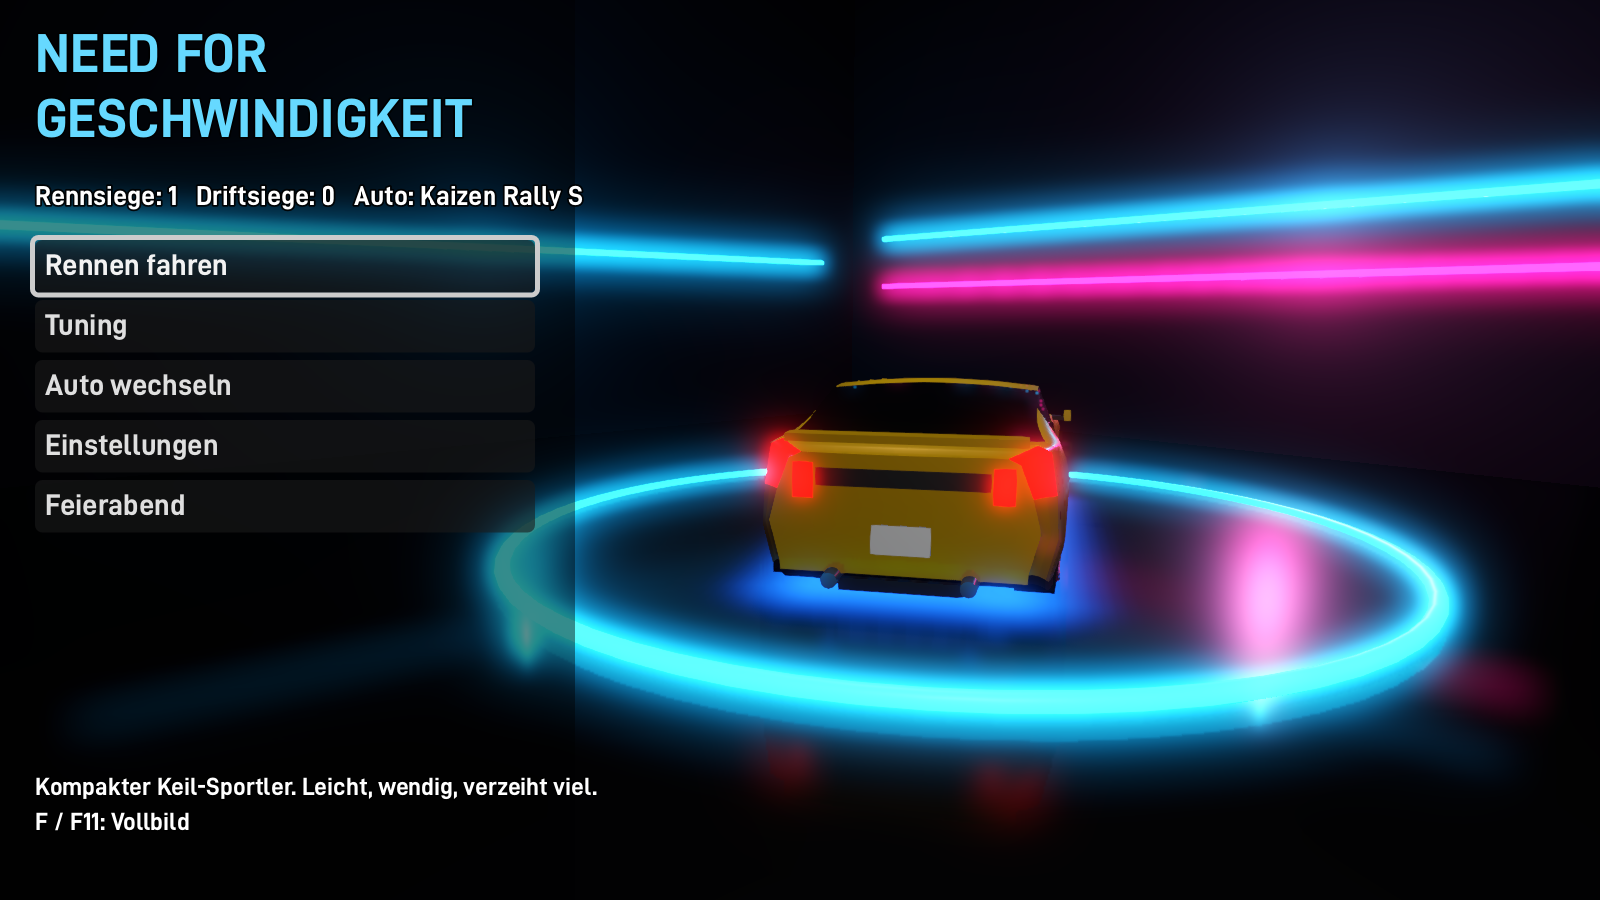
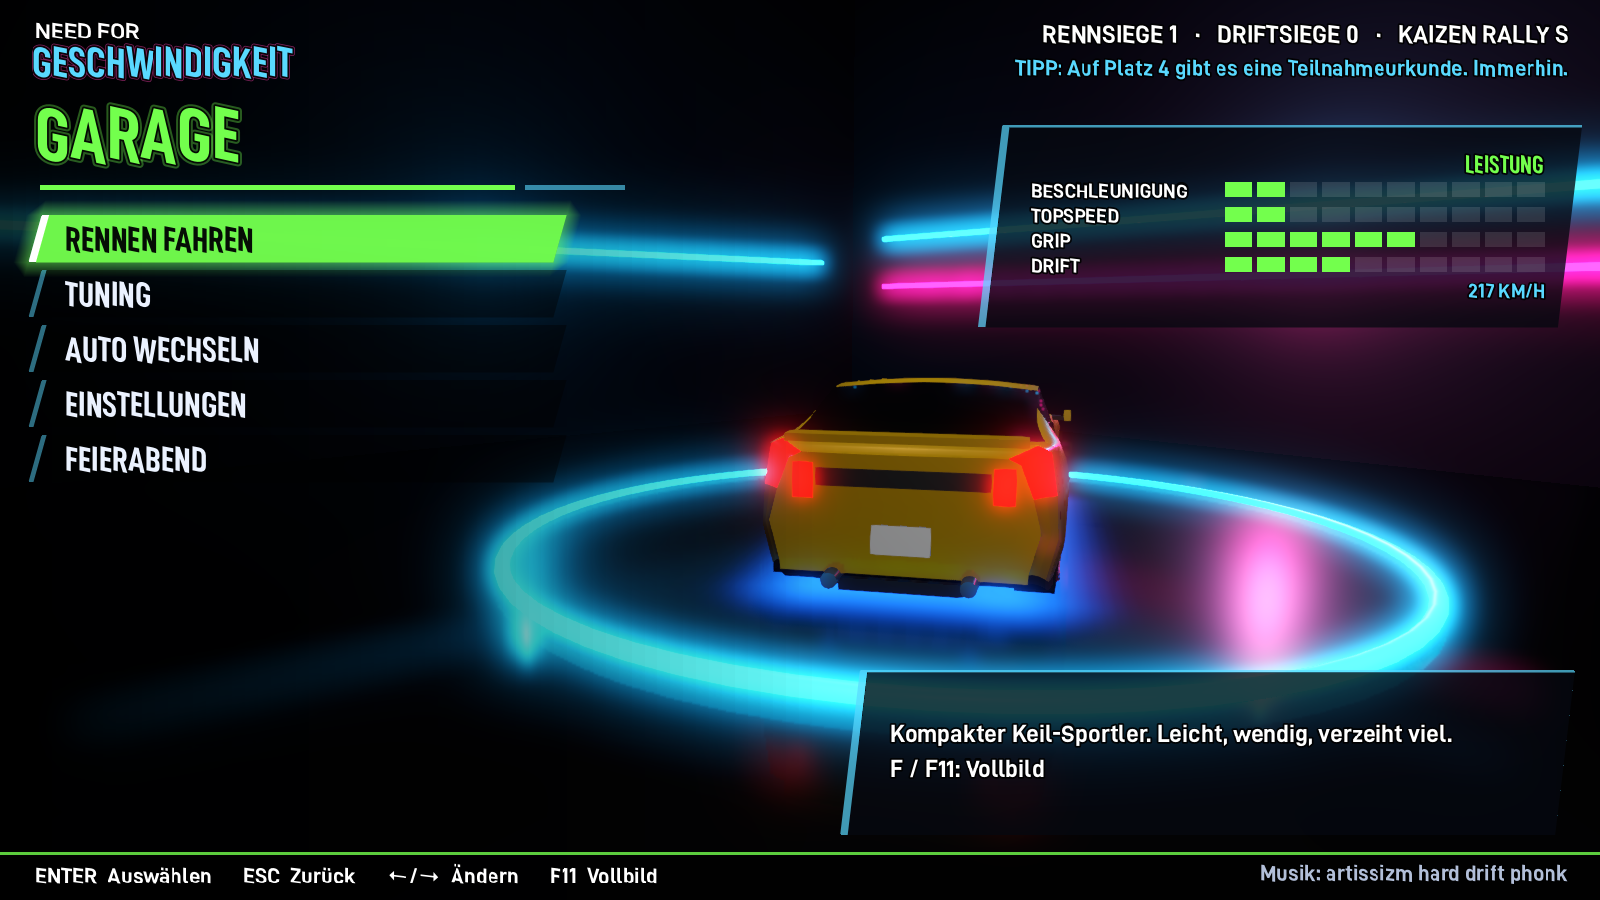
Menüs im Stil von NFS Underground: schräge Neonleisten, kursive DIN-Schrift, Leistungsbalken, Tipps
Abschnittstitel (GARAGE, RENNEN, TUNING, AUTOHAUS), Glasflächen, Tastenleiste unten,
wechselnde Tipps mit Augenzwinkern. Pause und Ergebnis im gleichen Look (scripts/ui_style.gd).

diff --git a/README.md b/README.md
@@ -117,6 +117,11 @@ Weitere mp3/ogg-Dateien in `music/` laufen automatisch mit, in zufälliger Reihe
 Motorsound, Reifen, Nitro und Crashs werden im Spiel erzeugt. Zug, Glocke, Landung, Platschen, Tunnel, Stadion usw.
 sind synthetisch erzeugte WAVs in `assets/sfx/` (`python3 tools/make_sfx.py`).
 
+## Menüs
+Im Stil von NFS Underground (`scripts/ui_style.gd`): schräge Leisten, Neongrün für die Auswahl, kursive
+DIN-Schmalschrift, große Abschnittstitel (GARAGE, RENNEN, TUNING, AUTOHAUS), Leistungsbalken des Autos (mit
+Motor-Tuning), Tastenleiste unten, wechselnde Tipps oben rechts. Pause und Ergebnis im gleichen Look.
+
 ## Schrift und Texte
 Alles auf Deutsch, mit Augenzwinkern (Lachgas statt NOS, Flugmodus bei Sprüngen, Teilnahmeurkunde für Platz 4,
 Dachwerbung wie „TÜV? NÄCHSTES JAHR.“). Schrift überall im Stil der deutschen Straßenschilder (DIN 1451):
